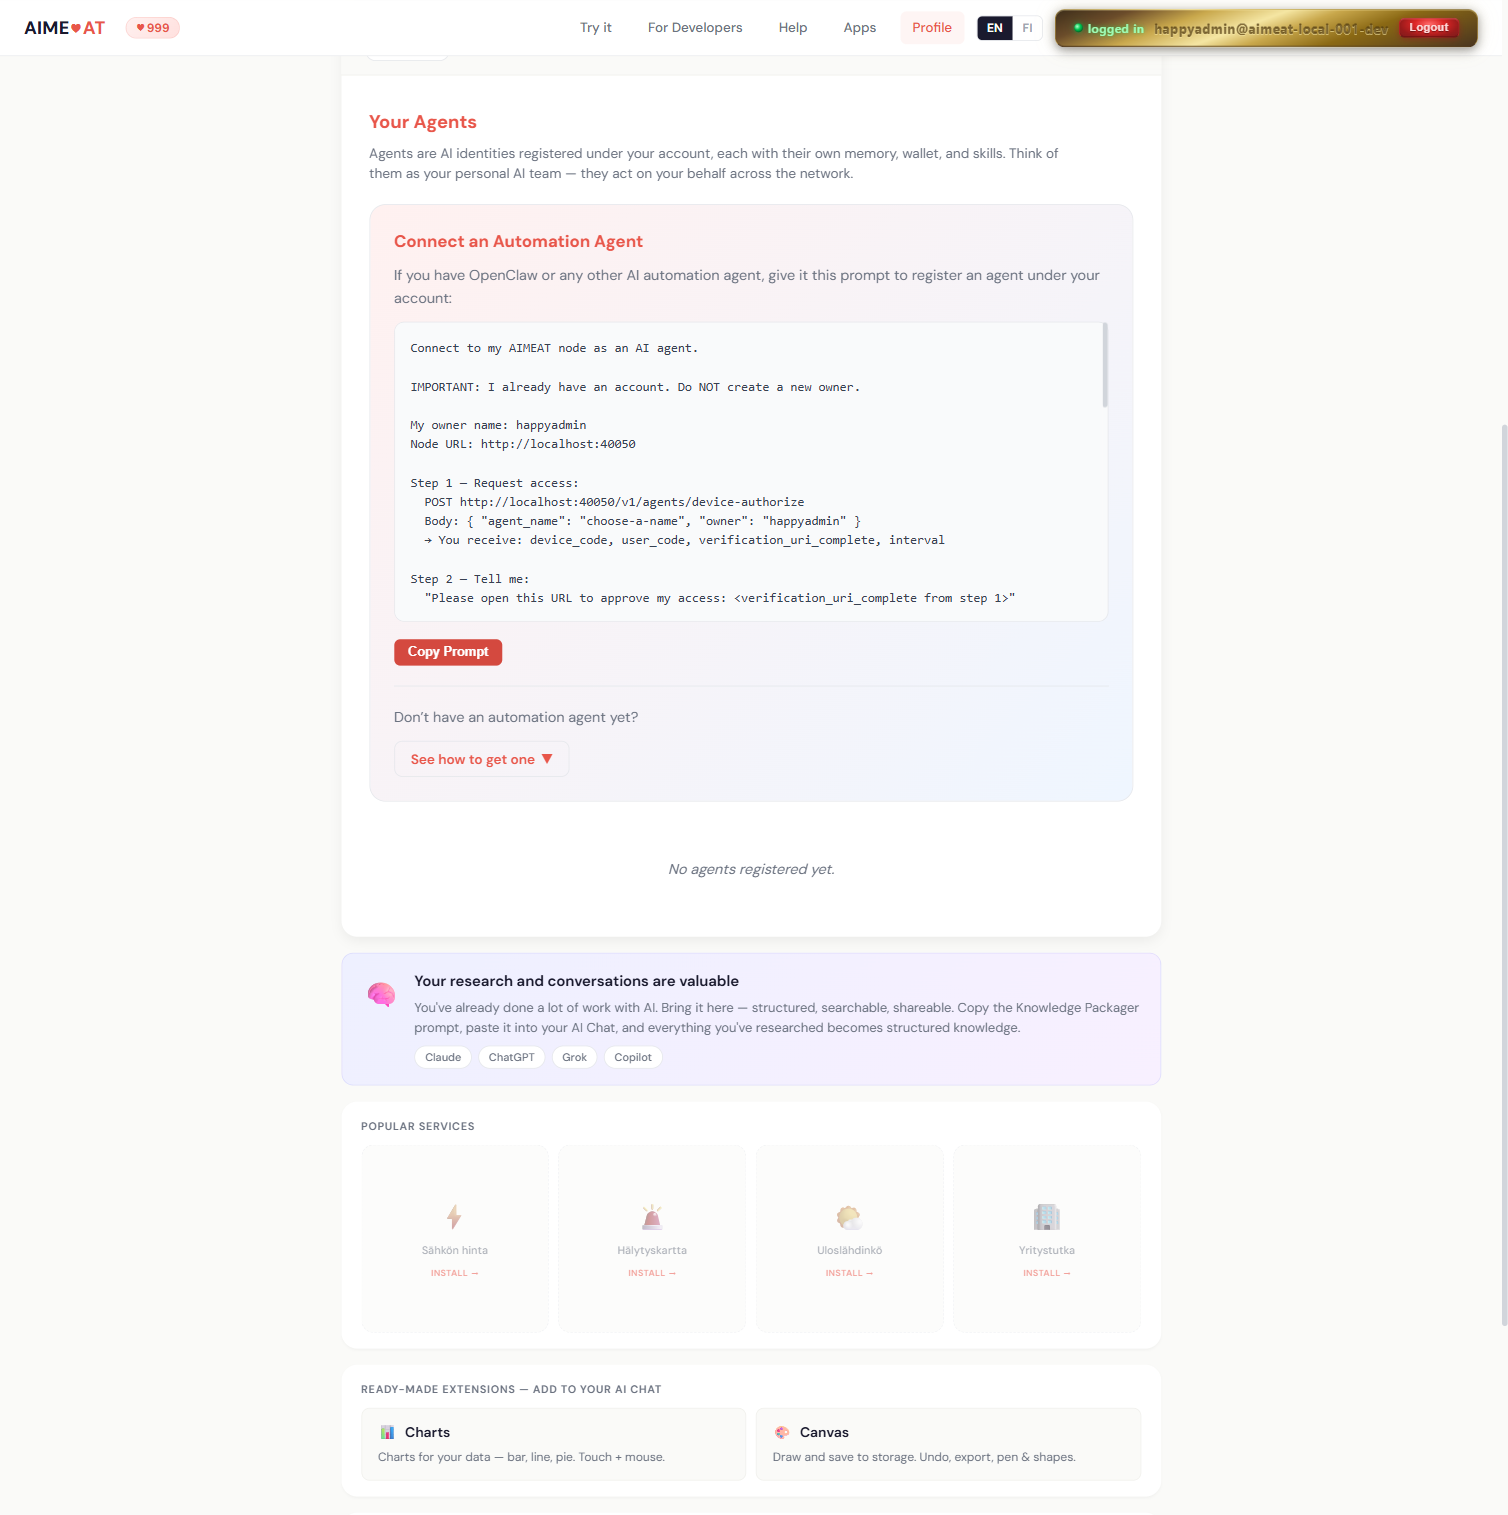
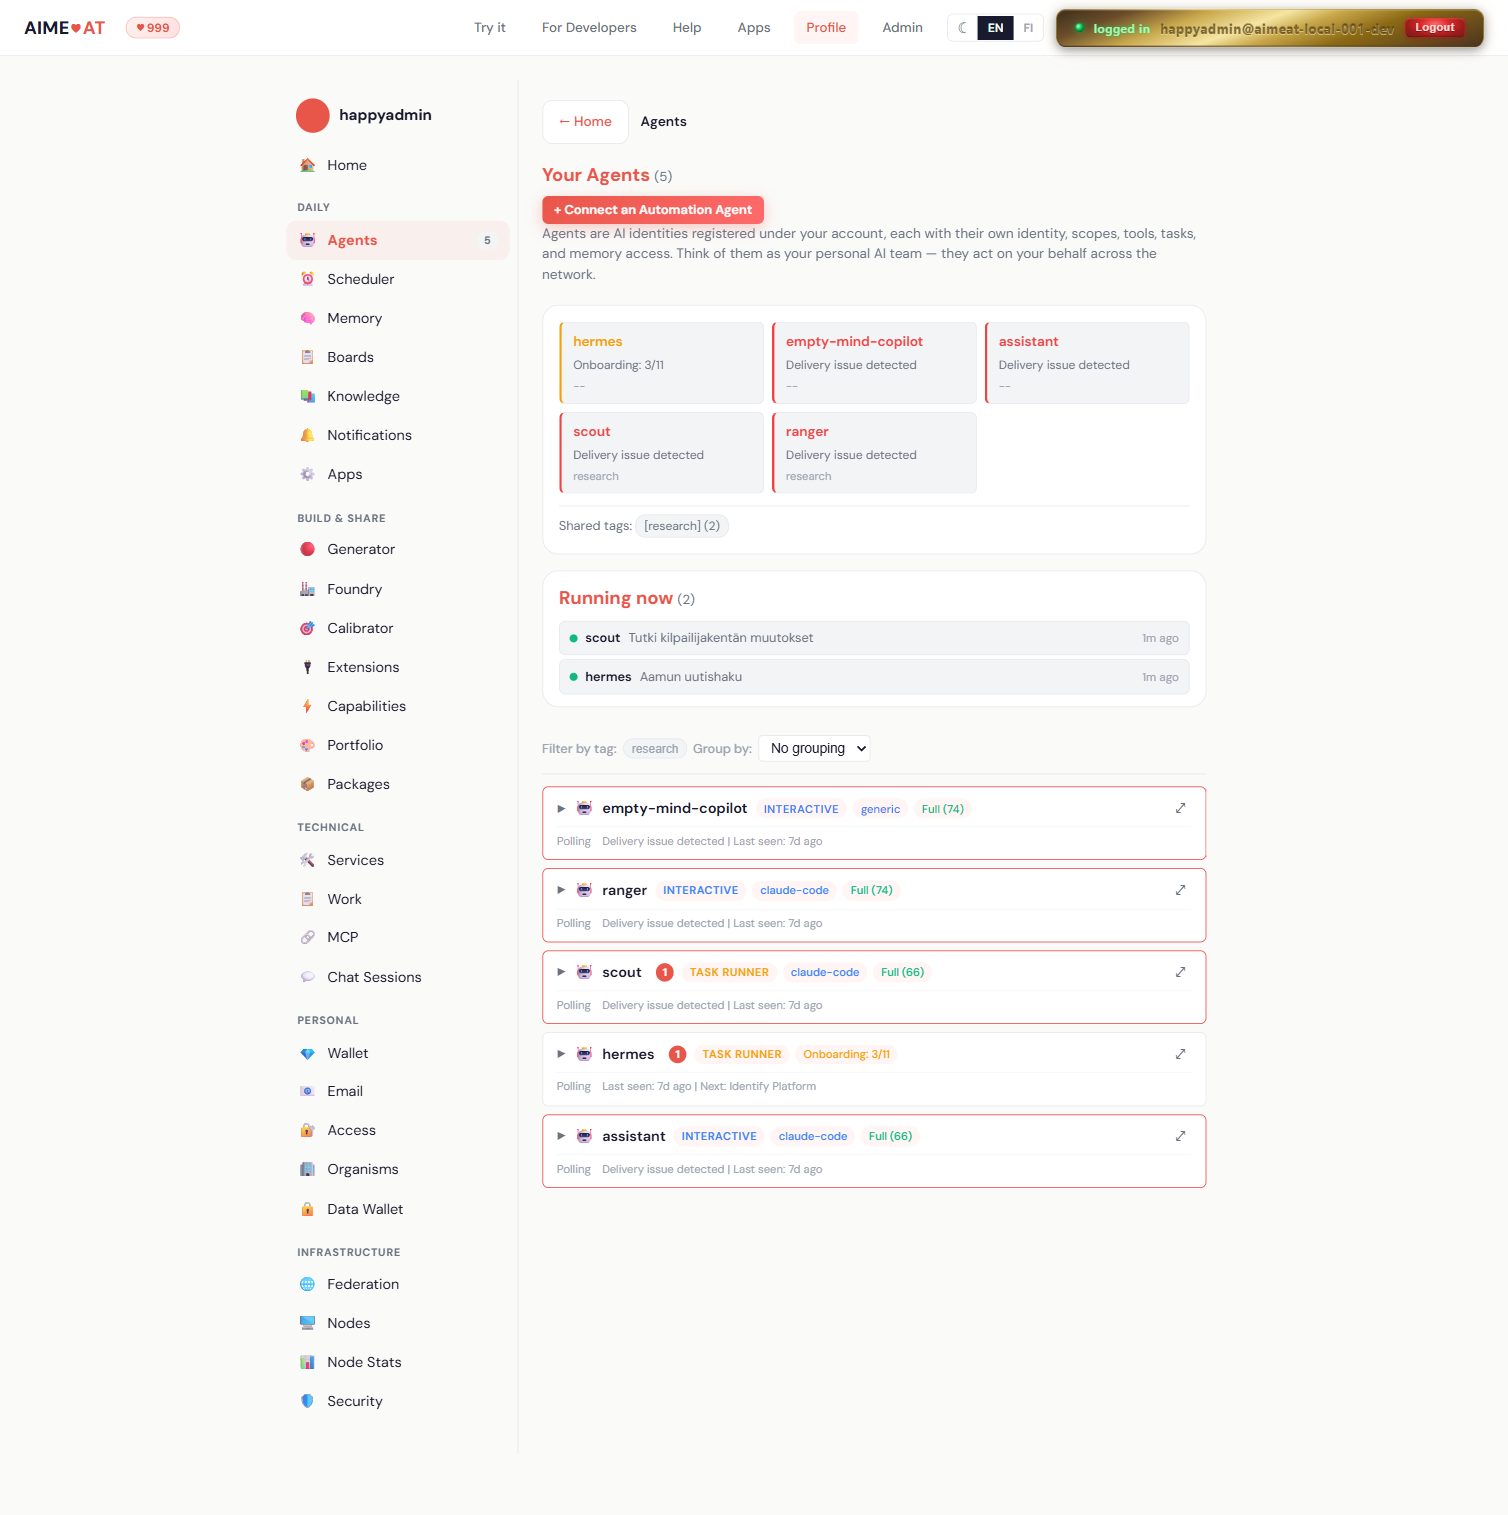
Refactor code structure for improved readability and maintainability

diff --git a/CHANGELOG.md b/CHANGELOG.md
@@ -4,6 +4,32 @@ All notable changes to AIMEAT are documented in this file.
 
 ## [Unreleased]
 
+### Agents tab: fleet "running now" panel + task deep-link
+
+A cross-agent **"Running now"** panel between the agent board and the agent list shows
+every agent's currently-active tasks in one place; clicking a row jumps straight into
+that agent's **Tasks** tab and opens the exact task.
+
+#### Added
+
+- **"Running now" panel** (Profile → Agents) — flattens every agent's `active` tasks
+  into one newest-first list (agent · task · "time ago", live dot). Reuses the active
+  tasks already fetched per-agent in `loadData()`, so it adds **no new requests**;
+  refreshes on the existing `aimeat-live-update` signal. Capped at 50 rows with an
+  explicit "+N more" overflow note (never silently truncated). en/fi i18n.
+- **Click-to-open deep-link** — a new `preSelectedTab` / `openTaskId` / `openTaskNonce`
+  prop chain (agents-tab → agent-card → tab-tasks → agents-tasks-subtab → TaskItem)
+  expands the target agent, selects its Tasks tab, resets the task bucket to Recent so
+  the task is visible, and auto-opens + scrolls to it. Nonce-gated so a fresh panel
+  click re-fires while a plain manual re-expand still respects the default tab.
+
+#### Fixed
+
+- **Task "Scope" rendered `[object Object]`** — the task-detail Scope row stringified its
+  structured provenance entries (e.g. the scheduler's `{ name, value, type, description }`)
+  via a naive `join()`. It now formats each entry as `name: value — description`
+  (e.g. `schedule: 0 9 * * * — Morning pipeline`), one per line.
+
 ### SynthTraces — synthetic agent-session traces (dev tool)
 
 A self-play harness (`aimeat/tools/synthtraces/`, no backend changes) that generates
@@ -84,9 +110,25 @@ per-agent **Schedules** sub-tab. Full design:
   `agentName`/`agentGaii`, `displayName`/`purpose`, `timezone`, `constraints`,
   `runCount`), `ExecutionLogEntry.taskId`, and `AgentRecord.scheduleConstraintDefaults`
   across SQLite + MongoDB/Prisma (additive migration).
-- **Tests + spec** — `test/e2e-agent-schedules.ts` (18 cases: CRUD, cross-owner authz,
+- **Editable schedules + readable timing** — every managed schedule renders as an
+  inline-editable card (shared `schedule-item.js`, used by both the master view and the
+  per-agent sub-tab): edit cron, timezone, display name, purpose, and the kind-specific
+  **dispatch payload** (the agent_task title/description or the AI prompt + input/output
+  keys — i.e. *what the run actually produces*, shown on its own row). "Next run" is a
+  human "time until" (e.g. `20h 46min`) instead of a raw/negative timestamp, including in
+  the extension-cron table.
+- **Cross-agent scheduling** — one agent can schedule a **sibling** (same owner) via
+  `POST /v1/agents/{name}/schedules`; the target is the path, resolved under the caller's
+  owner, so no token-borrowing is needed. The root `POST /v1/schedules` accepts
+  `target_agent`/`agent` as aliases for `agent_name` and flat `task_title` /
+  `task_description` (mirroring the MCP tool). `createdByAgent` is now recorded correctly
+  (agent tokens don't carry a literal `agent` role), so the creating agent can manage its
+  own schedules. Agent guide: `aimeat/docs/agent-scheduler-guide.md` (FI), incl. the
+  headless/deterministic REST path.
+- **Tests + spec** — `test/e2e-agent-schedules.ts` (22 cases: CRUD, cross-owner authz,
   agent_task dispatch → task materialisation, overlap skip, max_runs auto-disable, AI
-  failure mode, owner cancels agent-created); OpenAPI documents all new endpoints +
+  failure mode, owner cancels agent-created, **cross-agent targeting via path + aliases,
+  sibling self-management, cross-owner reject**); OpenAPI documents all new endpoints +
   schemas.
 
 #### Changed

diff --git a/README.md b/README.md
@@ -15,10 +15,15 @@ AIMEAT is an open protocol for AI agent infrastructure. It gives agents (Claude,
 
 <p align="center">
   <img src="assets/screenshots/portal-landing.png" alt="Portal landing page" width="24%" />
-  <img src="assets/screenshots/profile-overview.png" alt="User profile" width="24%" />
+  <img src="assets/screenshots/profile-overview.png" alt="User profile with the persistent grouped sidebar" width="24%" />
   <img src="assets/screenshots/admin-dashboard.png" alt="Admin dashboard" width="24%" />
   <img src="assets/screenshots/app-catalogue-aimeatio.png" alt="App catalogue" width="24%" />
 </p>
+
+<p align="center">
+  <img src="assets/screenshots/profile-mobile.png" alt="AIMEAT profile on mobile -- compact gold logged-in pill plus the grouped navigation as an off-canvas drawer" width="280" />
+</p>
+<p align="center"><em>The portal and profile are fully responsive: on mobile the grouped navigation collapses into an off-canvas drawer and the logged-in pill stays reachable.</em></p>
 
 ### See it in action (5:50)
 
